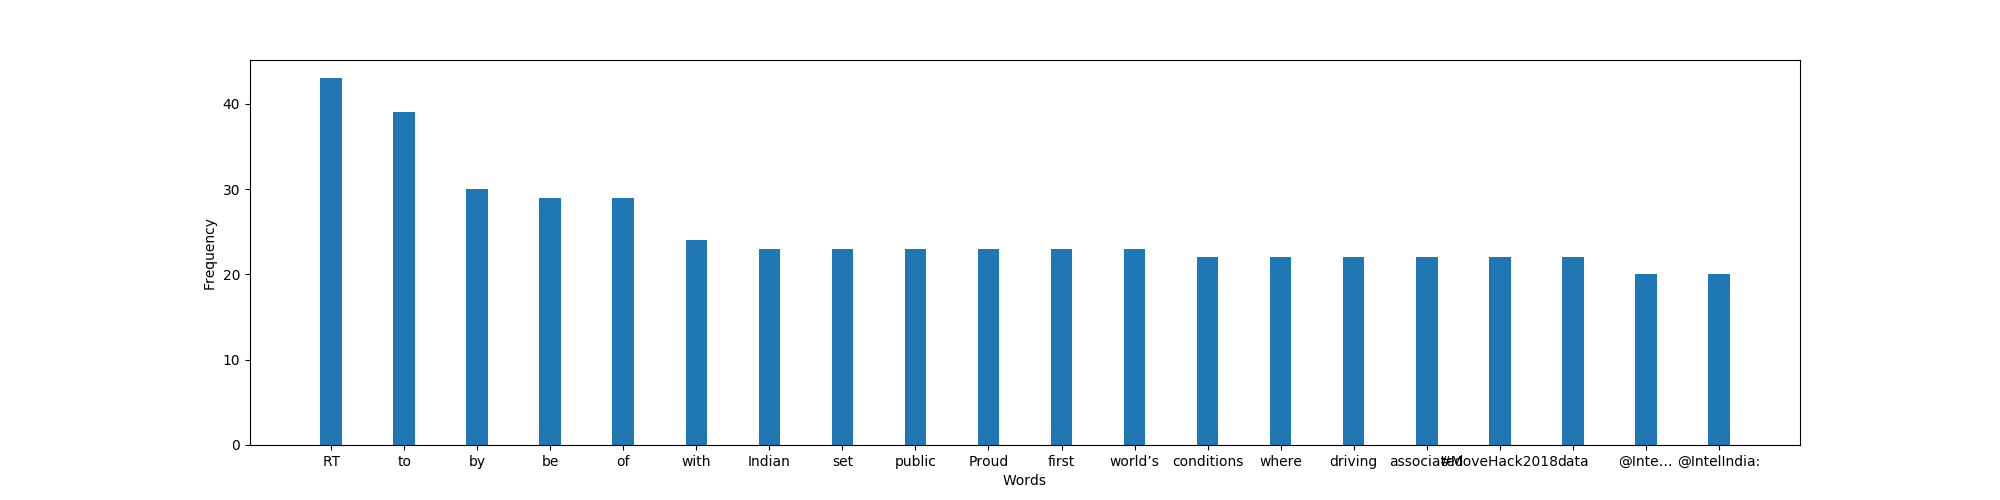
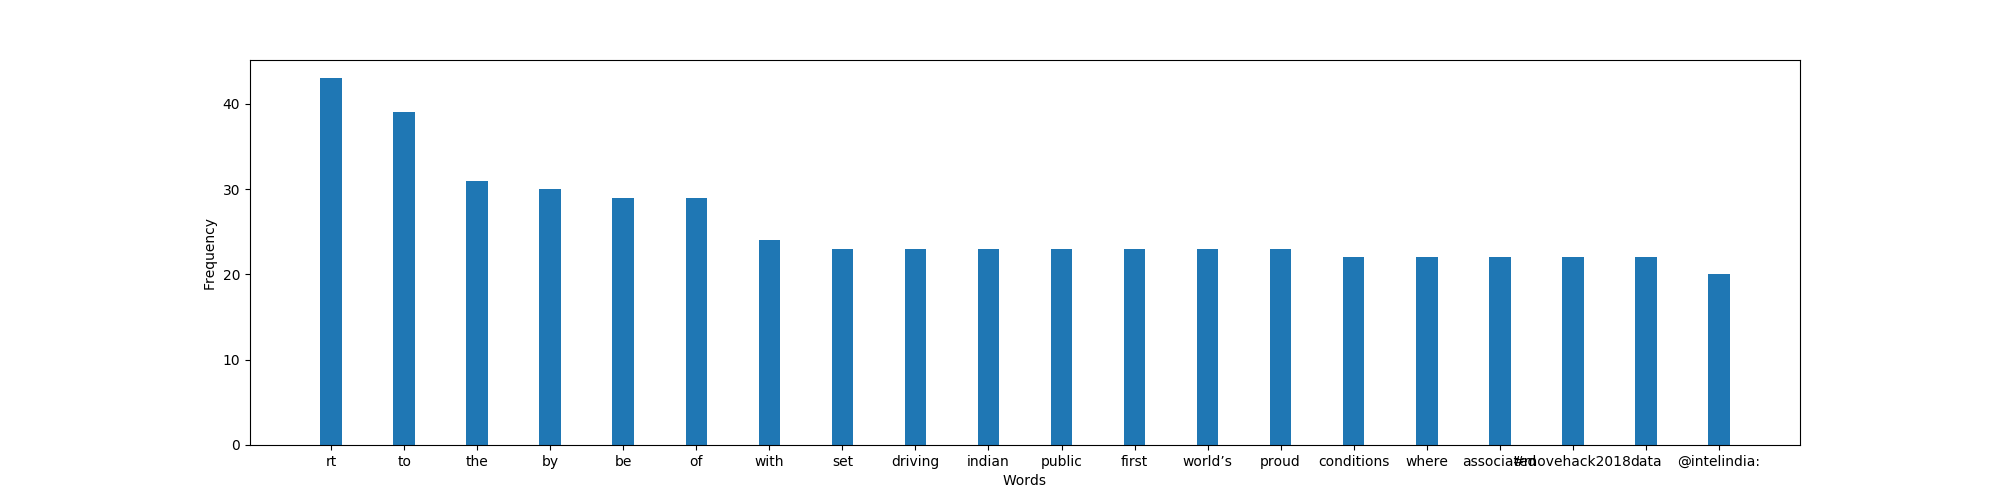
Finished question b, saved wordcloudsafter removing stopwords

diff --git a/answer_a.py b/answer_a.py
@@ -5,17 +5,23 @@ from tokens import *
 
 # Import required packages
 import matplotlib.pyplot as plt
+import re
 
 queries = ['@iiit_hyderabad', '@iiscbangalore']
+exports = {}
+
 for query in queries:
     from collections import Counter
+    import string
     data = twitter.search(q=query,result_type='mixed',count = 100)
 
     statuses = data['statuses']
     concat_str = "";
     for post in statuses:
         concat_str = concat_str + " " + post['text']
-
+    concat_str = re.sub(ur"\p{P}+", "", concat_str)
+    concat_str = concat_str.lower()
+    exports[query] = concat_str
     words = concat_str.split()
     Counter = Counter(words)
     most_frequent = Counter.most_common(20)
@@ -24,10 +30,6 @@ for query in queries:
     for i in range(0, len(most_frequent)):
         x.append(most_frequent[i][0])
         y.append(most_frequent[i][1])
-        # print most_frequent[0][0]
-    print x
-    print y
-
 
     plt.figure(figsize=(20, 5))  # width:20, height:5
     plt.bar(x, y, align='center', width=0.3)

diff --git a/answer_b.py b/answer_b.py
@@ -1,0 +1,23 @@
+"""Answer to second question."""
+
+# Import the data collected from first answer
+from answer_a import exports as data
+
+# Import required packages
+import matplotlib.pyplot as plt
+from wordcloud import WordCloud, STOPWORDS
+
+stop_words = set(STOPWORDS)
+
+i = 0
+for content in data:
+    i = i + 1
+    wordcloud = WordCloud(width = 800, height = 800,
+                background_color ='white',
+                stopwords = stop_words,
+                min_font_size = 10).generate(data[content])
+    plt.figure(figsize = (8, 8), facecolor = None)
+    plt.imshow(wordcloud)
+    plt.axis("off")
+    plt.tight_layout(pad = 0)
+    plt.savefig('wc' + str(i) + '.png')
